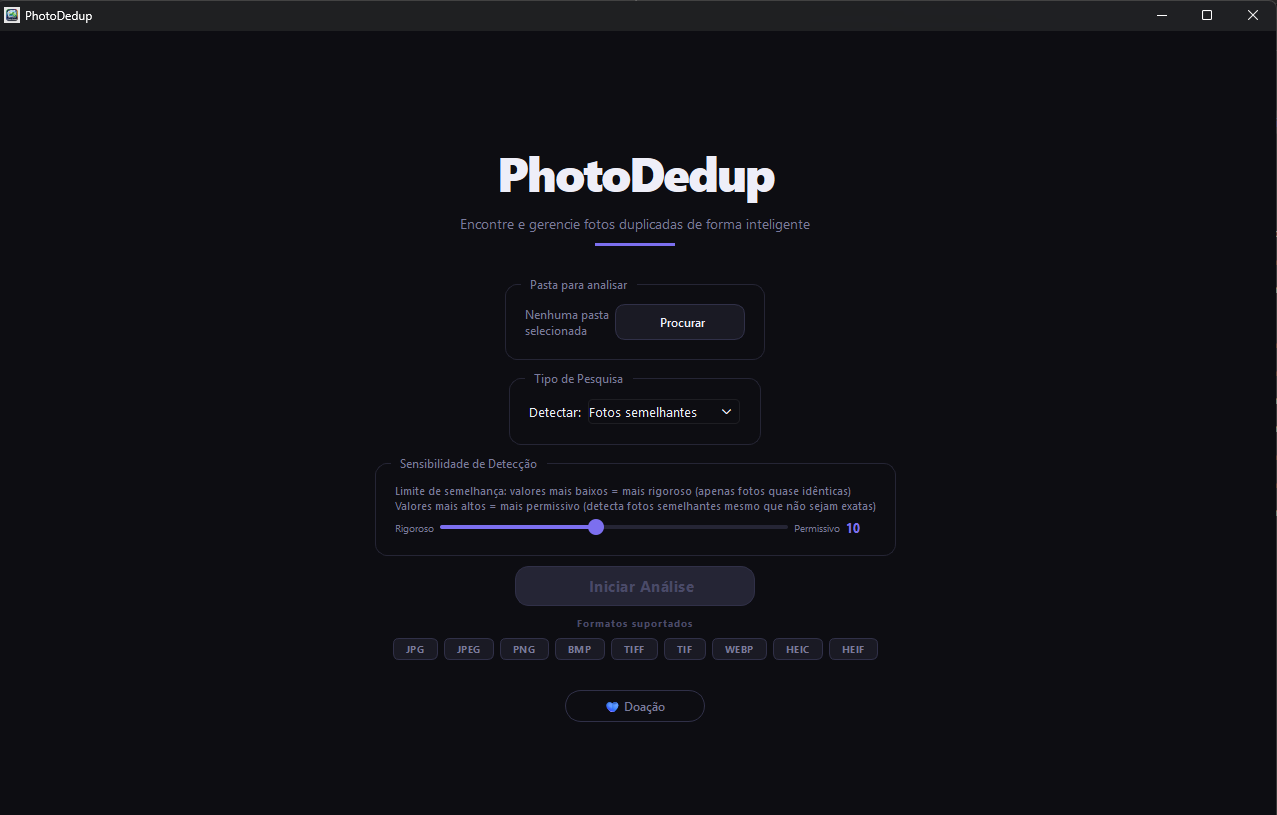
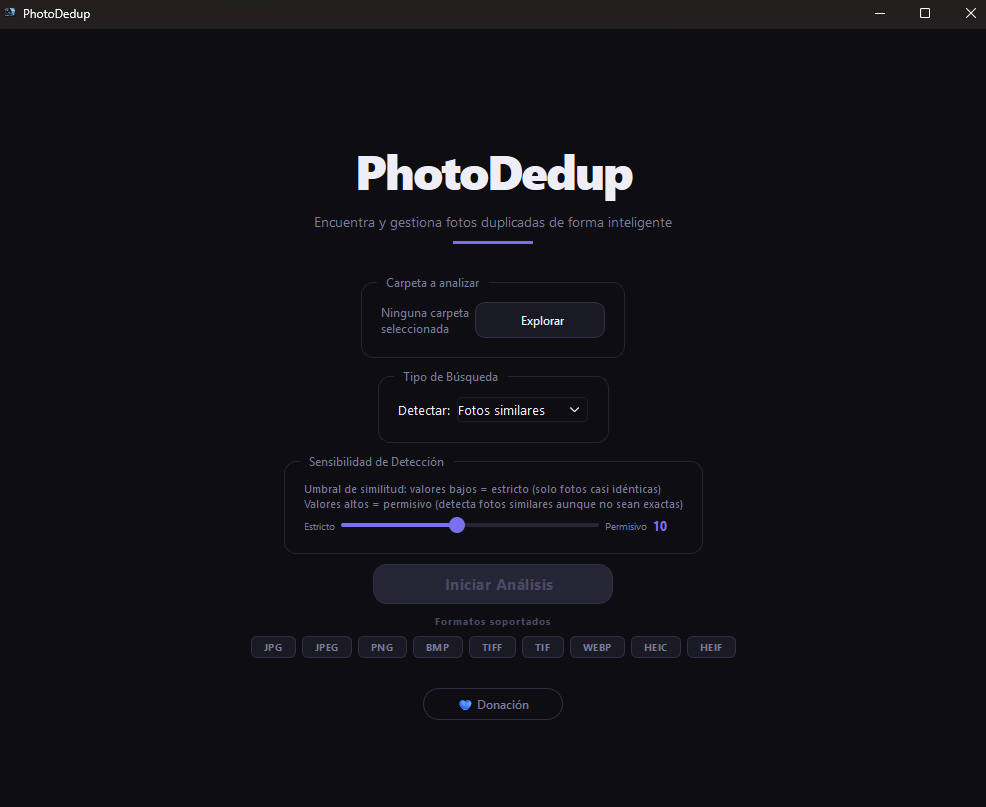
chore: prepare 1.1.0 release

diff --git a/src/main/photo_dedup.py b/src/main/photo_dedup.py
@@ -3,7 +3,7 @@ PhotoDedup - Intelligent Duplicate Photo Finder.
 Canonical application entry point.
 """
 
-__version__ = "1.0.15"
+__version__ = "1.1.0"
 
 import sys
 import warnings

diff --git a/RELEASE.md b/RELEASE.md
@@ -1,4 +1,4 @@
-# PhotoDedup v1.0.15
+# PhotoDedup v1.1.0
 
 *(Auto-generated from CHANGELOG. Do not edit manually.)*
 
@@ -6,15 +6,26 @@
 
 ## English
 
-### What's new in v1.0.15
-Release date: 2026-04-14
+### What's new in v1.1.0
+Release date: 2026-05-24
 
 ### Highlights
 ### Changed
-- **README screenshot structure**: Consolidated duplicate screenshot sections into a single shared section (`Screenshots / Capturas / Capturas`) with brief explanations for each capture in Spanish, English, and Portuguese.
+- Runtime policy now targets Python `3.14.x`, matching the installed local Python used for development and validation from this version onward.
+- Dependency bounds in `requirements.txt`, build-only dependencies in `requirements-build.txt`, Windows installers, build scripts, and GitHub Actions were updated for the Python 3.14 runtime line.
+- Unified the previous `install.ps1` + `install_secure.ps1` flow into a single `install.ps1` that works as both remote bootstrapper and local installer/launcher.
+- Standardized the local cloned-repository launcher as `Iniciar.bat`, replacing both the earlier `Install.bat` naming and the dependency-only `install_dependencies.bat` path.
+- Removed the external funding UI behavior and related assets from the desktop interface.
+- Redesigned the PyQt6 interface with a stronger shared visual system: refreshed palette, reusable theme helpers, updated welcome/progress/results screens, and cleaner duplicate review cards.
+- Reworked README structure for clearer ES/EN/PT onboarding, executable edition guidance, local validation, and error behavior documentation.
 
-### Documentation
-- Reduced multilingual repetition in README while preserving the same visual references and trilingual context.
+### Fixed
+- Added support for Google Takeout `*.supplemental-metadata.json` sidecar files so JSON metadata is detected, EXIF enrichment runs, and photo/JSON organization is triggered for the common Takeout naming pattern.
+- Skipped direct EXIF writes for HEIC/HEIF files, avoiding noisy `piexif` errors while still using Takeout JSON metadata for date-based organization.
+- Expanded Google Takeout sidecar matching for truncated `.suppl*` names, numbered metadata files, `*.jpg..json` files, Live Photo videos that share HEIC sidecar metadata, and orphan Takeout JSON files.
+- Fixed partial Google Takeout re-runs so truncated JSON names already moved into `Json` are still matched, numbered Live Photo videos are organized, JSON sidecars already in `Json` are not renamed again, and media without matching JSON no longer remains in the root folder.
+- Improved recoverable error handling for cache/config/history loading, analysis failures, QR fallback, per-file move/delete/export failures, and empty-folder scans.
+- Replaced several mojibake-prone UI labels with clean synchronized ES/EN/PT text overrides.
 
 ### One-command install (PowerShell)
 ```powershell
@@ -34,15 +45,26 @@ Current executables are not code-signed. Windows may show an unknown publisher w
 
 ## Portugues (Brasil)
 
-### O que ha de novo na v1.0.15
-Data do release: 2026-04-14
+### O que ha de novo na v1.1.0
+Data do release: 2026-05-24
 
 ### Destaques
 ### Alterado
-- **README screenshot structure**: Consolidated duplicate screenshot sections into a single shared section (`Screenshots / Capturas / Capturas`) with brief explanations for each capture in Spanish, English, and Portuguese.
+- Runtime policy now targets Python `3.14.x`, matching the installed local Python used for development and validation from this version onward.
+- Dependency bounds in `requirements.txt`, build-only dependencies in `requirements-build.txt`, Windows installers, build scripts, and GitHub Actions were updated for the Python 3.14 runtime line.
+- Unified the previous `install.ps1` + `install_secure.ps1` flow into a single `install.ps1` that works as both remote bootstrapper and local installer/launcher.
+- Standardized the local cloned-repository launcher as `Iniciar.bat`, replacing both the earlier `Install.bat` naming and the dependency-only `install_dependencies.bat` path.
+- Removed the external funding UI behavior and related assets from the desktop interface.
+- Redesigned the PyQt6 interface with a stronger shared visual system: refreshed palette, reusable theme helpers, updated welcome/progress/results screens, and cleaner duplicate review cards.
+- Reworked README structure for clearer ES/EN/PT onboarding, executable edition guidance, local validation, and error behavior documentation.
 
-### Documentacao
-- Reduced multilingual repetition in README while preserving the same visual references and trilingual context.
+### Corrigido
+- Added support for Google Takeout `*.supplemental-metadata.json` sidecar files so JSON metadata is detected, EXIF enrichment runs, and photo/JSON organization is triggered for the common Takeout naming pattern.
+- Skipped direct EXIF writes for HEIC/HEIF files, avoiding noisy `piexif` errors while still using Takeout JSON metadata for date-based organization.
+- Expanded Google Takeout sidecar matching for truncated `.suppl*` names, numbered metadata files, `*.jpg..json` files, Live Photo videos that share HEIC sidecar metadata, and orphan Takeout JSON files.
+- Fixed partial Google Takeout re-runs so truncated JSON names already moved into `Json` are still matched, numbered Live Photo videos are organized, JSON sidecars already in `Json` are not renamed again, and media without matching JSON no longer remains in the root folder.
+- Improved recoverable error handling for cache/config/history loading, analysis failures, QR fallback, per-file move/delete/export failures, and empty-folder scans.
+- Replaced several mojibake-prone UI labels with clean synchronized ES/EN/PT text overrides.
 
 ### Instalacao com um comando (PowerShell)
 ```powershell
@@ -62,15 +84,26 @@ Os executaveis atuais nao possuem assinatura de codigo. O Windows pode mostrar u
 
 ## Espanol
 
-### Novedades en la v1.0.15
-Fecha de release: 2026-04-14
+### Novedades en la v1.1.0
+Fecha de release: 2026-05-24
 
 ### Cambios destacados
 ### Cambiado
-- **README screenshot structure**: Consolidated duplicate screenshot sections into a single shared section (`Screenshots / Capturas / Capturas`) with brief explanations for each capture in Spanish, English, and Portuguese.
+- Runtime policy now targets Python `3.14.x`, matching the installed local Python used for development and validation from this version onward.
+- Dependency bounds in `requirements.txt`, build-only dependencies in `requirements-build.txt`, Windows installers, build scripts, and GitHub Actions were updated for the Python 3.14 runtime line.
+- Unified the previous `install.ps1` + `install_secure.ps1` flow into a single `install.ps1` that works as both remote bootstrapper and local installer/launcher.
+- Standardized the local cloned-repository launcher as `Iniciar.bat`, replacing both the earlier `Install.bat` naming and the dependency-only `install_dependencies.bat` path.
+- Removed the external funding UI behavior and related assets from the desktop interface.
+- Redesigned the PyQt6 interface with a stronger shared visual system: refreshed palette, reusable theme helpers, updated welcome/progress/results screens, and cleaner duplicate review cards.
+- Reworked README structure for clearer ES/EN/PT onboarding, executable edition guidance, local validation, and error behavior documentation.
 
-### Documentacion
-- Reduced multilingual repetition in README while preserving the same visual references and trilingual context.
+### Corregido
+- Added support for Google Takeout `*.supplemental-metadata.json` sidecar files so JSON metadata is detected, EXIF enrichment runs, and photo/JSON organization is triggered for the common Takeout naming pattern.
+- Skipped direct EXIF writes for HEIC/HEIF files, avoiding noisy `piexif` errors while still using Takeout JSON metadata for date-based organization.
+- Expanded Google Takeout sidecar matching for truncated `.suppl*` names, numbered metadata files, `*.jpg..json` files, Live Photo videos that share HEIC sidecar metadata, and orphan Takeout JSON files.
+- Fixed partial Google Takeout re-runs so truncated JSON names already moved into `Json` are still matched, numbered Live Photo videos are organized, JSON sidecars already in `Json` are not renamed again, and media without matching JSON no longer remains in the root folder.
+- Improved recoverable error handling for cache/config/history loading, analysis failures, QR fallback, per-file move/delete/export failures, and empty-folder scans.
+- Replaced several mojibake-prone UI labels with clean synchronized ES/EN/PT text overrides.
 
 ### Instalacion con un solo comando (PowerShell)
 ```powershell

diff --git a/ROADMAP.md b/ROADMAP.md
@@ -6,6 +6,7 @@ PhotoDedup follows SemVer and keeps completed work separate from future mileston
 
 | Version | Status | Summary |
 |---|---|---|
+| 1.1.0 | Released | Python 3.14 runtime line, unified installer, stronger UI/error handling/docs, donation UI removal, and robust Google Takeout JSON/media organization. |
 | 1.0.15 | Released | Consolidated README screenshots into one shared ES/EN/PT section. |
 | 1.0.14 | Released | Professional trilingual README rewrite and screenshot documentation set. |
 | 1.0.13 | Released | README badge rendering fix and icon transparency diagnostics. |
@@ -17,9 +18,6 @@ PhotoDedup follows SemVer and keeps completed work separate from future mileston
 
 | Milestone | Goal |
 |---|---|
-| UI consistency pass | Keep the refreshed PyQt6 visual system consistent across dialogs, cards, logs, summaries, and language selection. |
-| Error resilience pass | Continue replacing silent broad catches with recoverable errors, clear user messages, and useful technical logs. |
-| Python 3.14 runtime line | Keep installers, CI, packaging, and dependency bounds aligned with Python 3.14.x. |
 | Documentation parity | Keep README, CHANGELOG, RELEASE notes, installer behavior, and validation commands synchronized. |
 | Release validation | Maintain Full/Lite executable smoke tests and publish clear artifact metadata for release builds. |
 | Accessibility review | Improve keyboard focus, contrast checks, text wrapping, and long-path readability in dense result views. |

diff --git a/CHANGELOG.md b/CHANGELOG.md
@@ -8,6 +8,14 @@ and this project adheres to [Semantic Versioning](https://semver.org/spec/v2.0.0
 ## [Unreleased]
 
 ### Changed
+- _No changes yet._
+
+### Fixed
+- _No changes yet._
+
+## [1.1.0] - 2026-05-24
+
+### Changed
 - Runtime policy now targets Python `3.14.x`, matching the installed local Python used for development and validation from this version onward.
 - Dependency bounds in `requirements.txt`, build-only dependencies in `requirements-build.txt`, Windows installers, build scripts, and GitHub Actions were updated for the Python 3.14 runtime line.
 - Unified the previous `install.ps1` + `install_secure.ps1` flow into a single `install.ps1` that works as both remote bootstrapper and local installer/launcher.
